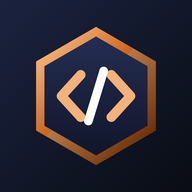
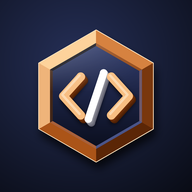
Add files via upload

Changed region(s): [[0.1875, 0.125, 0.8125, 0.875]]

diff --git a/index.html b/index.html
@@ -2,72 +2,77 @@
 <html lang="es">
 <head>
 <meta charset="utf-8">
-<meta name="viewport" content="width=device-width, initial-scale=1">
+<meta name="viewport" content="width=device-width, initial-scale=1,viewport-fit=cover">
 <title>CodeForja · Ventas de apps web</title>
 <link rel="manifest" href="manifest.webmanifest">
-<meta name="theme-color" content="#141A26">
+<meta name="theme-color" content="#0B0F18">
+<meta name="color-scheme" content="dark">
+<meta name="apple-mobile-web-app-status-bar-style" content="black">
 <meta name="mobile-web-app-capable" content="yes">
 <meta name="apple-mobile-web-app-capable" content="yes">
 <meta name="apple-mobile-web-app-title" content="CodeForja">
-<link rel="icon" href="icon.svg" type="image/svg+xml">
-<link rel="apple-touch-icon" href="icon-192.png">
+<link rel="icon" href="icon-192.png" type="image/png">
+<link rel="apple-touch-icon" href="apple-touch-icon.png">
 <style>
-:root{--bg:#EEF1F6;--card:#fff;--ink:#141A26;--mut:#5E6A7E;--line:#D9DFEA;--ac:#4C3FE0;--cu:#D9772B;--ok:#13875B;--bad:#C93A3A;--side:#141A26}
-@media(prefers-color-scheme:dark){:root{--bg:#0E121B;--card:#171D2A;--ink:#EAEEF6;--mut:#93A0B8;--line:#27304A;--ac:#8B80FF;--side:#0A0D14}}
-*{box-sizing:border-box}body{margin:0;font:15px/1.5 "Segoe UI",system-ui,sans-serif;background:var(--bg);color:var(--ink)}
-.app{display:grid;grid-template-columns:220px 1fr;min-height:100vh}
-aside{background:var(--side);color:#fff;padding:18px 14px;position:sticky;top:0;height:100vh}
-.brand{display:flex;gap:10px;align-items:center;margin-bottom:22px}.brand b{font-size:18px;letter-spacing:.3px}.brand small{display:block;color:#9AA6BD;font-size:11px}
-nav button{display:block;width:100%;text-align:left;background:none;border:0;color:#C9D2E3;padding:10px 12px;border-radius:10px;font:inherit;cursor:pointer;margin-bottom:4px}
-nav button.on,nav button:hover{background:rgba(255,255,255,.1);color:#fff}
-main{padding:22px;max-width:1100px;width:100%}
-h1{font-size:24px;margin:0 0 16px}
-.kpis{display:grid;grid-template-columns:repeat(auto-fit,minmax(170px,1fr));gap:12px;margin-bottom:16px}
-.k{background:var(--card);border:1px solid var(--line);border-radius:14px;padding:14px}.k span{color:var(--mut);font-size:13px}.k b{display:block;font-size:24px;margin-top:2px}
-.card{background:var(--card);border:1px solid var(--line);border-radius:14px;padding:16px;margin-bottom:16px}
+:root{--bg:#0B0F18;--card:#121827;--ink:#EAF0FA;--mut:#97A4BD;--line:#26304A;--ac:#7C6CFF;--cu:#FF9A3C;--ok:#2EE6A0;--bad:#FF5C6E;--side:#0A0D14;--led:#05070D;--sb:env(safe-area-inset-bottom,0px);color-scheme:dark}
+*{box-sizing:border-box}html{-webkit-text-size-adjust:100%}
+body{margin:0;font:15px/1.5 "Segoe UI",system-ui,sans-serif;background:radial-gradient(900px 500px at 85% -10%,rgba(124,108,255,.16),transparent 60%) fixed,var(--bg);color:var(--ink);overflow-x:hidden;overflow-wrap:break-word}
+.app{display:grid;grid-template-columns:230px minmax(0,1fr);min-height:100vh;min-height:100dvh}
+aside{background:linear-gradient(180deg,#0E1424,var(--side));border-right:1px solid var(--line);color:#fff;padding:calc(18px + env(safe-area-inset-top,0px)) 14px 18px max(14px,env(safe-area-inset-left,0px));position:sticky;top:0;height:100vh;height:100dvh;overflow-y:auto}
+.brand{display:flex;gap:10px;align-items:center;margin-bottom:24px}.brand img{border-radius:12px;box-shadow:0 0 18px rgba(255,154,60,.45),0 4px 10px #000a}.brand b{font-size:18px}.brand small{display:block;color:#9AA6BD;font-size:11px}
+nav button{--n:124,108,255;display:block;width:100%;text-align:left;color:#C9D2E3;font:inherit;cursor:pointer;margin-bottom:12px;padding:11px 13px;border-radius:12px;border:1px solid rgba(255,255,255,.09);background:linear-gradient(180deg,#1E2640,#141A2B);box-shadow:inset 0 1px 0 rgba(255,255,255,.12),0 4px 0 var(--led),0 8px 12px rgba(0,0,0,.4);transition:transform .08s,box-shadow .08s}
+nav button:hover{color:#fff;border-color:rgba(var(--n),.6)}
+nav button.on{color:#fff;border-color:rgb(var(--n));background:linear-gradient(180deg,rgba(var(--n),.45),rgba(var(--n),.12)),#141A2B;box-shadow:inset 0 1px 0 rgba(255,255,255,.25),inset 0 0 18px rgba(var(--n),.6),0 4px 0 var(--led),0 0 18px rgba(var(--n),.45);text-shadow:0 0 8px rgba(var(--n),.9)}
+.sh{display:none}
+main{padding:clamp(12px,3vw,24px) max(clamp(12px,3vw,24px),env(safe-area-inset-right,0px));max-width:1100px;width:100%;min-width:0}
+h1{font-size:clamp(20px,3vw,26px);margin:0 0 16px}
+.kpis{display:grid;grid-template-columns:repeat(auto-fit,minmax(165px,1fr));gap:16px;margin-bottom:24px}
+.k{--n:124,108,255;position:relative;display:block;width:100%;text-align:left;font:inherit;color:var(--ink);cursor:pointer;padding:15px 14px 16px;border-radius:16px;border:1px solid rgba(var(--n),.6);background:radial-gradient(120% 100% at 50% 0,rgba(var(--n),.24),transparent 65%),linear-gradient(180deg,#1C2540,#121827);box-shadow:inset 0 1px 0 rgba(255,255,255,.14),inset 0 0 26px rgba(var(--n),.3),0 5px 0 var(--led),0 0 20px rgba(var(--n),.25),0 12px 22px rgba(0,0,0,.5);transition:transform .08s,box-shadow .08s,filter .15s}
+.k::before{content:"";position:absolute;left:16%;right:16%;top:-1px;height:2px;border-radius:2px;background:rgb(var(--n));box-shadow:0 0 12px 2px rgba(var(--n),.9)}
+.k span{display:block;color:var(--mut);font-size:13px}.k b{display:block;margin-top:2px;font-size:clamp(18px,2.4vw,24px);color:#fff;text-shadow:0 0 14px rgba(var(--n),.85);overflow-wrap:anywhere}
+.card{background:linear-gradient(180deg,#151C2E,var(--card));border:1px solid var(--line);border-radius:16px;padding:16px;margin-bottom:18px;box-shadow:inset 0 1px 0 rgba(255,255,255,.05),0 10px 24px rgba(0,0,0,.35)}
 .card h2{font-size:16px;margin:0 0 12px}
-.bars{display:flex;align-items:flex-end;gap:10px;height:150px}.bars div{flex:1;text-align:center;font-size:11px;color:var(--mut)}.bars i{display:block;background:linear-gradient(var(--ac),#7A6CFF);border-radius:6px 6px 0 0;min-height:3px;margin-bottom:4px}
+.bars{display:flex;align-items:flex-end;gap:10px;height:150px}.bars div{flex:1;min-width:0;text-align:center;font-size:11px;color:var(--mut)}.bars i{display:block;background:linear-gradient(#9A8FFF,#5547E0);box-shadow:0 0 14px rgba(124,108,255,.65);border-radius:6px 6px 0 0;min-height:3px;margin-bottom:4px}
 .tw{overflow-x:auto}table{width:100%;border-collapse:collapse;min-width:720px}th,td{padding:9px 8px;border-bottom:1px solid var(--line);text-align:left;font-size:14px}th{color:var(--mut);font-weight:600;font-size:13px}
-.tag{padding:2px 9px;border-radius:99px;font-size:12px;font-weight:600;white-space:nowrap}.t-ok{background:#13875B22;color:var(--ok)}.t-w{background:#D9772B26;color:var(--cu)}.t-b{background:#C93A3A22;color:var(--bad)}
-button.b,a.b{background:var(--ac);color:#fff;border:0;border-radius:9px;padding:7px 12px;font:inherit;font-size:13px;cursor:pointer;text-decoration:none;display:inline-block}
-button.g{background:none;color:var(--ac);border:1px solid var(--line)}button.d{background:none;color:var(--bad);border:1px solid var(--line)}
-.row{display:flex;gap:6px;flex-wrap:wrap}.bar{display:flex;gap:8px;flex-wrap:wrap;margin-bottom:12px;align-items:center}
-input,select,textarea{width:100%;padding:9px 10px;border:1px solid var(--line);border-radius:9px;background:var(--bg);color:var(--ink);font:inherit}
-label{font-size:13px;color:var(--mut);display:block}.fg{display:grid;grid-template-columns:1fr 1fr;gap:10px}.fg .w{grid-column:1/-1}
-dialog{border:0;border-radius:16px;padding:20px;width:min(520px,94vw);background:var(--card);color:var(--ink)}dialog::backdrop{background:#0008}
-.alert{background:#D9772B1F;border:1px solid var(--cu);border-radius:12px;padding:10px 14px;margin-bottom:14px}
-.hide{display:none}
-@media(max-width:760px){.app{grid-template-columns:1fr}aside{position:static;height:auto;display:flex;gap:8px;align-items:center;overflow-x:auto}.brand{margin:0}nav{display:flex}nav button{white-space:nowrap}.fg{grid-template-columns:1fr}}
+.tag{padding:2px 9px;border-radius:99px;font-size:12px;font-weight:600;white-space:nowrap;border:1px solid currentColor}.t-ok{background:#2EE6A01F;color:var(--ok)}.t-w{background:#FF9A3C22;color:var(--cu)}.t-b{background:#FF5C6E22;color:var(--bad)}
+.b{--n:124,108,255;display:inline-flex;align-items:center;justify-content:center;min-height:36px;padding:7px 14px;border-radius:10px;font:inherit;font-size:13px;font-weight:600;color:#fff;text-decoration:none;cursor:pointer;border:1px solid rgb(var(--n));text-shadow:0 0 8px rgba(var(--n),.95);background:linear-gradient(180deg,rgba(var(--n),.6),rgba(var(--n),.2) 55%,rgba(var(--n),.3)),#171D33;box-shadow:inset 0 1px 0 rgba(255,255,255,.4),inset 0 0 14px rgba(var(--n),.55),0 4px 0 var(--led),0 0 14px rgba(var(--n),.35),0 8px 14px rgba(0,0,0,.4);transition:transform .08s,box-shadow .08s,filter .15s}
+.b.g,.b.d{text-shadow:none;background:linear-gradient(180deg,rgba(var(--n),.22),rgba(var(--n),.06)),#12182A;border-color:rgba(var(--n),.55);box-shadow:inset 0 1px 0 rgba(255,255,255,.14),inset 0 0 10px rgba(var(--n),.3),0 4px 0 var(--led),0 8px 14px rgba(0,0,0,.4)}
+.b.g{--n:150,140,255;color:#D8D3FF}.b.d{--n:255,92,110;color:#FFC2C9}
+.b:hover,.k:hover,nav button:hover{filter:brightness(1.15)}
+.b:active,.k:active,nav button:active{transform:translateY(3px);box-shadow:inset 0 0 16px rgba(var(--n),.6),0 1px 0 var(--led),0 0 10px rgba(var(--n),.3)}
+:focus-visible{outline:2px solid #fff;outline-offset:3px}
+.row,.bar{padding-bottom:5px}.row{display:flex;gap:10px;flex-wrap:wrap}.bar{display:flex;gap:12px;flex-wrap:wrap;margin-bottom:12px;align-items:center}.qi{max-width:260px}
+input,select,textarea{width:100%;padding:10px;border:1px solid var(--line);border-radius:10px;background:#0B1020;color:var(--ink);font:inherit;box-shadow:inset 0 2px 5px rgba(0,0,0,.45)}
+input:focus,select:focus,textarea:focus{outline:0;border-color:var(--ac);box-shadow:inset 0 2px 5px rgba(0,0,0,.45),0 0 0 3px rgba(124,108,255,.35)}
+label{font-size:13px;color:var(--mut);display:block;margin-bottom:3px}.fg{display:grid;grid-template-columns:1fr 1fr;gap:10px}.fg .w{grid-column:1/-1}
+dialog{max-height:92dvh;overflow:auto;border:1px solid rgba(124,108,255,.5);border-radius:18px;padding:20px;width:min(520px,94vw);background:var(--card);color:var(--ink);box-shadow:0 0 30px rgba(124,108,255,.3),0 20px 50px #000}dialog::backdrop{background:rgba(3,5,10,.75)}
+.alert{background:rgba(255,154,60,.1);border:1px solid var(--cu);border-radius:12px;padding:10px 14px;margin-bottom:16px;box-shadow:inset 0 0 18px rgba(255,154,60,.18)}
+.hide{display:none!important}#recbox img{width:100%;max-height:66dvh;object-fit:contain;display:block}textarea{resize:vertical;min-height:110px}
+@media(max-width:1000px){.app{grid-template-columns:minmax(0,1fr)}
+aside{height:auto;overflow:visible;z-index:5;border-right:0;border-bottom:1px solid var(--line);padding:calc(10px + env(safe-area-inset-top,0px)) max(14px,env(safe-area-inset-right,0px)) 10px max(14px,env(safe-area-inset-left,0px))}
+.brand{margin:0}.brand small{display:none}.brand b{font-size:16px}.brand img{width:38px;height:38px}
+nav{position:fixed;left:0;right:0;bottom:0;z-index:10;display:grid;grid-template-columns:repeat(4,1fr);gap:8px;padding:10px 10px calc(10px + var(--sb));background:rgba(10,13,20,.94);-webkit-backdrop-filter:blur(10px);backdrop-filter:blur(10px);border-top:1px solid var(--line)}
+nav button{margin:0;padding:10px 4px;text-align:center;font-size:12px;min-height:46px}.lg{display:none}.sh{display:inline}
+main{padding-bottom:calc(100px + var(--sb))}.fg{grid-template-columns:1fr}.qi{max-width:none;flex:1 1 100%}input,select,textarea{font-size:16px}
+table,thead,tbody,tr,td{display:block;width:100%}table{min-width:0}thead{display:none}
+tr{background:linear-gradient(180deg,#151C2E,var(--card));border:1px solid var(--line);border-radius:14px;padding:8px 12px;margin-bottom:14px;box-shadow:0 6px 14px rgba(0,0,0,.35)}
+td{border:0;padding:4px 0;display:flex;justify-content:space-between;align-items:center;gap:12px;text-align:right}td::before{content:attr(data-l);color:var(--mut);font-size:13px;text-align:left}td:last-child::before,td[colspan]::before{content:none}td:last-child{display:block;padding-top:8px}td:last-child .row .b{flex:1}td:last-child>.b{width:100%}
+.card.tw{background:none;border:0;padding:0;box-shadow:none}.tw{overflow:visible}.kpis{grid-template-columns:1fr 1fr}.k:last-child{grid-column:1/-1}}
+@media(prefers-reduced-motion:reduce){*{transition:none!important}}
 </style>
 </head>
 <body>
 <div class="app">
 <aside>
   <div class="brand">
-    <svg width="46" height="46" viewBox="0 0 100 100" aria-label="Logo CodeForja">
-      <defs>
-        <linearGradient id="m" x1="0" y1="0" x2="1" y2="1"><stop offset="0" stop-color="#F4B27A"/><stop offset=".45" stop-color="#C9651F"/><stop offset="1" stop-color="#6E3009"/></linearGradient>
-        <linearGradient id="f" x1="0" y1="0" x2="0" y2="1"><stop offset="0" stop-color="#2B3560"/><stop offset="1" stop-color="#0B0F1E"/></linearGradient>
-        <linearGradient id="h" x1="0" y1="0" x2="0" y2="1"><stop offset="0" stop-color="#fff" stop-opacity=".75"/><stop offset="1" stop-color="#fff" stop-opacity="0"/></linearGradient>
-        <radialGradient id="g" cx=".5" cy=".5" r=".5"><stop offset="0" stop-color="#8B80FF" stop-opacity=".9"/><stop offset="1" stop-color="#8B80FF" stop-opacity="0"/></radialGradient>
-        <filter id="s" x="-20%" y="-20%" width="140%" height="150%"><feDropShadow dx="0" dy="4" stdDeviation="3" flood-opacity=".5"/></filter>
-      </defs>
-      <g filter="url(#s)">
-        <polygon points="50,5 90,27 90,73 50,95 10,73 10,27" fill="url(#m)"/>
-        <polygon points="50,12 83,31 83,69 50,88 17,69 17,31" fill="url(#f)"/>
-        <polygon points="50,5 90,27 50,48 10,27" fill="url(#h)" opacity=".45"/>
-      </g>
-      <circle cx="50" cy="50" r="30" fill="url(#g)"/>
-      <path d="M40 36 28 50 40 64M60 36 72 50 60 64" fill="none" stroke="#F4B27A" stroke-width="6" stroke-linecap="round" stroke-linejoin="round"/>
-      <path d="M54 34 46 66" stroke="#fff" stroke-width="5" stroke-linecap="round"/>
-    </svg>
+    <img src="icon-192.png" width="46" height="46" alt="Logo CodeForja">
     <div><b id="bn">CodeForja</b><small>Ventas de apps web</small></div>
   </div>
   <nav>
     <button data-v="dash" class="on">Panel</button>
     <button data-v="ventas">Ventas</button>
-    <button data-v="avisos">Avisos de garantía</button>
-    <button data-v="ajustes">Ajustes y datos</button>
+    <button data-v="avisos"><span class="lg">Avisos de garantía</span><span class="sh">Avisos</span></button>
+    <button data-v="ajustes"><span class="lg">Ajustes y datos</span><span class="sh">Ajustes</span></button>
   </nav>
 </aside>
 <main>
@@ -88,6 +93,9 @@ const $=s=>document.querySelector(s);
 const esc=s=>String(s??"").replace(/[&<>"]/g,c=>({"&":"&amp;","<":"&lt;",">":"&gt;",'"':"&quot;"}[c]));
 const cop=n=>"$"+Math.round(+n||0).toLocaleString("es-CO");
 const KEY="codeforja.v1";
+const DEFNOTA="¡Hola, {cliente}! Gracias por tu compra. Durante los primeros 30 días tu soporte está incluido: cubrimos cualquier cambio, actualización o sugerencia sin costo. A partir del día 31 el soporte vence y las nuevas mejoras tienen un valor adicional. Para cualquier solicitud, por favor ponte en contacto con soporte. Un cordial saludo, {negocio}.";
+const notaDe=v=>(S.cfg.nota||DEFNOTA).replace(/\{cliente\}/g,v.cliente).replace(/\{negocio\}/g,S.cfg.negocio||"CodeForja");
+function ajusta(x,t,w){const o=[];let l="";t.split(" ").forEach(p=>{const n=l?l+" "+p:p;if(x.measureText(n).width>w&&l){o.push(l);l=p}else l=n});if(l)o.push(l);return o}
 let S={cfg:{negocio:"CodeForja",whatsapp:"",cuota:50000,alerta:15},ventas:[]};
 function guardar(){try{localStorage.setItem(KEY,JSON.stringify(S))}catch(e){}}
 async function cargar(){
@@ -111,54 +119,56 @@ function render(){
   $("#dash").innerHTML=`<h1>Panel</h1>
   ${por.length+ven.length?`<div class="alert"><b>${por.length}</b> garantía(s) por vencer y <b>${ven.length}</b> vencida(s). Avisa a tus clientes desde “Avisos de garantía”.</div>`:""}
   <div class="kpis">
-   <div class="k"><span>Apps vendidas</span><b>${V.length}</b></div>
-   <div class="k"><span>Ventas totales</span><b>${cop(tot)}</b></div>
-   <div class="k"><span>Cobrado</span><b>${cop(pag)}</b></div>
-   <div class="k"><span>Por cobrar</span><b style="color:var(--cu)">${cop(tot-pag)}</b></div>
-   <div class="k"><span>Garantías activas</span><b>${V.filter(v=>dias(v)>=0).length}</b></div></div>
+   <button class="k" data-a="go" data-id="ventas" style="--n:124,108,255"><span>Apps vendidas</span><b>${V.length}</b></button>
+   <button class="k" data-a="go" data-id="ventas" style="--n:255,154,60"><span>Ventas totales</span><b>${cop(tot)}</b></button>
+   <button class="k" data-a="go" data-id="ventas" style="--n:46,230,160"><span>Cobrado</span><b>${cop(pag)}</b></button>
+   <button class="k" data-a="go" data-id="ventas" style="--n:255,92,110"><span>Por cobrar</span><b>${cop(tot-pag)}</b></button>
+   <button class="k" data-a="go" data-id="avisos" style="--n:60,200,255"><span>Garantías activas</span><b>${V.filter(v=>dias(v)>=0).length}</b></button></div>
   <div class="card"><h2>Cobrado por mes</h2>${ks.length?`<div class="bars">${ks.map(k=>`<div><i style="height:${meses[k]/mx*110}px"></i>${k.slice(5)}/${k.slice(2,4)}<br>${cop(meses[k]/1000)}k</div>`).join("")}</div>`:"<p>Aún no hay ventas. Registra la primera en “Ventas”.</p>"}</div>`;
 
-  $("#ventas").innerHTML=`<h1>Ventas</h1><div class="bar"><button class="b" onclick="editar()">+ Nueva venta</button><input id="q" placeholder="Buscar cliente o app" style="max-width:260px" oninput="filtrar()"></div>
+  $("#ventas").innerHTML=`<h1>Ventas</h1><div class="bar"><button class="b" data-a="editar">+ Nueva venta</button><input id="q" placeholder="Buscar cliente o app" class="qi" oninput="filtrar()"></div>
   <div class="card tw"><table><thead><tr><th>Cliente</th><th>App</th><th>Precio</th><th>Saldo</th><th>Garantía hasta</th><th>Estado</th><th></th></tr></thead><tbody id="tb"></tbody></table></div>`;
   filtrar();
 
   const alertas=[...por,...ven].sort((a,b)=>dias(a)-dias(b));
   $("#avisos").innerHTML=`<h1>Avisos de garantía</h1><p style="color:var(--mut)">Clientes con garantía por vencer (${S.cfg.alerta} días) o vencida. El mensaje anuncia que desde esa fecha se cobran las próximas mejoras (${cop(S.cfg.cuota)}).</p>
-  <div class="card tw"><table><thead><tr><th>Cliente</th><th>App</th><th>Vence</th><th>Días</th><th></th></tr></thead><tbody>${alertas.map(v=>`<tr><td>${esc(v.cliente)}</td><td>${esc(v.app)}</td><td>${fmtD(fin(v))}</td><td><span class="tag ${estado(v)[1]}">${dias(v)}</span></td><td><button class="b" onclick="avisar('${v.id}')">Avisar por WhatsApp</button></td></tr>`).join("")||`<tr><td colspan="5">Nada por avisar. Todo al día.</td></tr>`}</tbody></table></div>`;
+  <div class="card tw"><table><thead><tr><th>Cliente</th><th>App</th><th>Vence</th><th>Días</th><th></th></tr></thead><tbody>${alertas.map(v=>`<tr><td data-l="Cliente">${esc(v.cliente)}</td><td data-l="App">${esc(v.app)}</td><td data-l="Vence">${fmtD(fin(v))}</td><td data-l="Días"><span class="tag ${estado(v)[1]}">${dias(v)}</span></td><td><button class="b" data-a="avisar" data-id="${esc(v.id)}">Avisar por WhatsApp</button></td></tr>`).join("")||`<tr><td colspan="5">Nada por avisar. Todo al día.</td></tr>`}</tbody></table></div>`;
 
   const c=S.cfg;
   $("#ajustes").innerHTML=`<h1>Ajustes y datos</h1><div class="card"><div class="fg">
   <div><label>Nombre del negocio</label><input id="c1" value="${esc(c.negocio)}"></div>
   <div><label>Tu WhatsApp (con indicativo, ej. 573001234567)</label><input id="c2" value="${esc(c.whatsapp)}"></div>
   <div><label>Cobro por mejoras futuras (COP)</label><input id="c3" type="number" value="${c.cuota}"></div>
-  <div><label>Avisar con X días de anticipación</label><input id="c4" type="number" value="${c.alerta}"></div></div>
+  <div><label>Avisar con X días de anticipación</label><input id="c4" type="number" value="${c.alerta}"></div>
+  <div class="w"><label>Nota que sale en el recibo (usa {cliente} y {negocio})</label><textarea id="c5">${esc(c.nota||DEFNOTA)}</textarea></div></div>
   <p><button class="b" onclick="saveCfg()">Guardar ajustes</button></p></div>
   <div class="card"><h2>Datos para GitHub</h2><p style="color:var(--mut)">Descarga <b>data.json</b> y súbelo al repositorio junto a index.html. Al abrir la app, si el navegador no tiene datos, los carga de ese archivo. Para actualizar la app, solo reemplaza index.html en GitHub: tus datos no se pierden.</p>
   <div class="row"><button class="b" onclick="exportar()">Descargar data.json</button><button class="b g" onclick="$('#imp').click()">Importar data.json</button><input id="imp" type="file" accept=".json" class="hide" onchange="importar(this)"></div></div>`;
 }
 function filtrar(){
   const q=($("#q")?.value||"").toLowerCase();
-  $("#tb").innerHTML=S.ventas.filter(v=>(v.cliente+v.app).toLowerCase().includes(q)).sort((a,b)=>b.fecha.localeCompare(a.fecha)).map(v=>{const e=estado(v);return `<tr><td>${esc(v.cliente)}</td><td>${esc(v.app)}</td><td>${cop(v.precio)}</td><td>${cop(v.precio-v.pagado)}</td><td>${fmtD(fin(v))}</td><td><span class="tag ${e[1]}">${e[0]}</span></td><td><div class="row"><button class="b" onclick="recibo('${v.id}')">Recibo</button><button class="b g" onclick="editar('${v.id}')">Editar</button><button class="b d" onclick="borrar('${v.id}')">Borrar</button></div></td></tr>`}).join("")||`<tr><td colspan="7">Sin ventas todavía.</td></tr>`;
+  $("#tb").innerHTML=S.ventas.filter(v=>(v.cliente+v.app).toLowerCase().includes(q)).sort((a,b)=>b.fecha.localeCompare(a.fecha)).map(v=>{const e=estado(v);return `<tr><td data-l="Cliente">${esc(v.cliente)}</td><td data-l="App">${esc(v.app)}</td><td data-l="Precio">${cop(v.precio)}</td><td data-l="Saldo">${cop(v.precio-v.pagado)}</td><td data-l="Garantía hasta">${fmtD(fin(v))}</td><td data-l="Estado"><span class="tag ${e[1]}">${e[0]}</span></td><td><div class="row"><button class="b" data-a="recibo" data-id="${esc(v.id)}">Recibo</button><button class="b g" data-a="editar" data-id="${esc(v.id)}">Editar</button><button class="b d" data-a="borrar" data-id="${esc(v.id)}">Borrar</button></div></td></tr>`}).join("")||`<tr><td colspan="7">Sin ventas todavía.</td></tr>`;
 }
-function editar(id){
-  const v=S.ventas.find(x=>x.id==id)||{cliente:"",tel:"",app:"",precio:"",pagado:0,fecha:new Date().toISOString().slice(0,10),meses:3,nota:""};
+let EID="";
+function editar(id){EID=id||"";
+  const v=S.ventas.find(x=>x.id==id)||{cliente:"",tel:"",app:"",precio:"",pagado:0,fecha:new Date().toISOString().slice(0,10),meses:1,nota:""};
   $("#frm").innerHTML=`<h2 style="margin-top:0">${id?"Editar venta":"Nueva venta"}</h2><div class="fg">
   <div><label>Cliente</label><input id="f1" value="${esc(v.cliente)}"></div><div><label>Celular</label><input id="f2" value="${esc(v.tel)}"></div>
   <div class="w"><label>Aplicación vendida</label><input id="f3" value="${esc(v.app)}"></div>
   <div><label>Precio (COP)</label><input id="f4" type="number" value="${v.precio}"></div><div><label>Pagado (COP)</label><input id="f5" type="number" value="${v.pagado}"></div>
   <div><label>Fecha de venta</label><input id="f6" type="date" value="${v.fecha}"></div><div><label>Garantía y soporte (meses)</label><input id="f7" type="number" value="${v.meses}"></div>
   <div class="w"><label>Nota</label><input id="f8" value="${esc(v.nota)}"></div></div>
-  <p class="row"><button type="button" class="b" onclick="guardarVenta('${id||""}')">Guardar</button><button type="button" class="b g" onclick="$('#dlg').close()">Cancelar</button></p>`;
+  <p class="row"><button type="button" class="b" onclick="guardarVenta()">Guardar</button><button type="button" class="b g" onclick="$('#dlg').close()">Cancelar</button></p>`;
   $("#dlg").showModal();
 }
-function guardarVenta(id){
+function guardarVenta(){const id=EID;
   const n={id:id||String(Date.now()),cliente:$("#f1").value.trim(),tel:$("#f2").value.trim(),app:$("#f3").value.trim(),precio:+$("#f4").value||0,pagado:+$("#f5").value||0,fecha:$("#f6").value,meses:+$("#f7").value||0,nota:$("#f8").value.trim()};
   if(!n.cliente||!n.app||!n.fecha){alert("Escribe cliente, aplicación y fecha.");return}
   const i=S.ventas.findIndex(x=>x.id==id);i>=0?S.ventas[i]=n:S.ventas.push(n);
   guardar();$("#dlg").close();render();
 }
 function borrar(id){if(confirm("¿Borrar esta venta?")){S.ventas=S.ventas.filter(v=>v.id!=id);guardar();render()}}
-function saveCfg(){S.cfg={negocio:$("#c1").value||"CodeForja",whatsapp:$("#c2").value.replace(/\D/g,""),cuota:+$("#c3").value||0,alerta:+$("#c4").value||15};guardar();render();alert("Ajustes guardados")}
+function saveCfg(){S.cfg={negocio:$("#c1").value||"CodeForja",whatsapp:$("#c2").value.replace(/\D/g,""),cuota:+$("#c3").value||0,alerta:+$("#c4").value||15,nota:$("#c5").value.trim()||DEFNOTA};guardar();render();alert("Ajustes guardados")}
 function exportar(){const a=document.createElement("a");a.href=URL.createObjectURL(new Blob([JSON.stringify(S,null,2)],{type:"application/json"}));a.download="data.json";a.click()}
 function importar(i){const f=i.files[0];if(!f)return;f.text().then(t=>{try{S=JSON.parse(t);guardar();render();alert("Datos importados")}catch(e){alert("El archivo no es válido")}})}
 function numWA(t){let d=String(t).replace(/\D/g,"");return d.length==10?"57"+d:d}
@@ -168,26 +178,30 @@ function avisar(id){
   window.open("https://wa.me/"+numWA(v.tel)+"?text="+encodeURIComponent(m),"_blank");
 }
 /* Recibo estilo Nequi: se dibuja como imagen y se comparte */
-let CV=null;
+let CV=null,CN="";
 function recibo(id){
-  const v=S.ventas.find(x=>x.id==id),c=document.createElement("canvas");c.width=720;c.height=1080;const x=c.getContext("2d");
-  const g=x.createLinearGradient(0,0,720,1080);g.addColorStop(0,"#2A0A4A");g.addColorStop(1,"#7A1FA2");x.fillStyle=g;x.fillRect(0,0,720,1080);
+  const v=S.ventas.find(x=>x.id==id),c=document.createElement("canvas");const m=document.createElement("canvas").getContext("2d");m.font="22px Segoe UI,Arial";const NL=ajusta(m,notaDe(v),540),CT=S.cfg.whatsapp?1:0,H=1030+60+NL.length*32+CT*34+110;c.width=720;c.height=H;const x=c.getContext("2d");
+  const g=x.createLinearGradient(0,0,720,H);g.addColorStop(0,"#2A0A4A");g.addColorStop(1,"#7A1FA2");x.fillStyle=g;x.fillRect(0,0,720,H);
   x.fillStyle="#fff";x.font="bold 40px Segoe UI,Arial";x.textAlign="center";x.fillText(S.cfg.negocio,360,90);
   x.font="26px Segoe UI,Arial";x.fillStyle="#E9D3FA";x.fillText("¡Listo! Tu pago quedó registrado",360,140);
-  x.fillStyle="#fff";x.beginPath();x.roundRect(40,180,640,820,28);x.fill();
+  x.fillStyle="#fff";x.beginPath();x.roundRect(40,180,640,H-230,28);x.fill();
   x.fillStyle="#13875B";x.beginPath();x.arc(360,250,38,0,7);x.fill();x.strokeStyle="#fff";x.lineWidth=8;x.lineCap="round";x.beginPath();x.moveTo(342,250);x.lineTo(356,264);x.lineTo(380,236);x.stroke();
   x.textAlign="center";x.fillStyle="#6B7280";x.font="24px Segoe UI,Arial";x.fillText("Valor pagado",360,340);
   x.fillStyle="#200020";x.font="bold 64px Segoe UI,Arial";x.fillText(cop(v.pagado),360,410);
   const f=[["Cliente",v.cliente],["Aplicación",v.app],["Precio total",cop(v.precio)],["Saldo pendiente",cop(v.precio-v.pagado)],["Fecha",fmtD(new Date(v.fecha+"T12:00:00"))],["Garantía hasta",fmtD(fin(v))],["Referencia","M"+String(v.id).slice(-8)]];
   x.textAlign="left";let y=480;
   f.forEach(r=>{x.fillStyle="#6B7280";x.font="22px Segoe UI,Arial";x.fillText(r[0],80,y);x.fillStyle="#200020";x.font="bold 24px Segoe UI,Arial";x.textAlign="right";x.fillText(String(r[1]).slice(0,28),640,y);x.textAlign="left";x.strokeStyle="#EEE";x.lineWidth=2;x.beginPath();x.moveTo(80,y+18);x.lineTo(640,y+18);x.stroke();y+=70});
-  x.textAlign="center";x.fillStyle="#9CA3AF";x.font="20px Segoe UI,Arial";x.fillText("Gracias por confiar en "+S.cfg.negocio,360,1040);
-  CV=c;
-  $("#recbox").innerHTML=`<img src="${c.toDataURL()}" style="width:100%;border-radius:12px"><p class="row"><button class="b" onclick="compartir('${v.cliente.replace(/'/g,"")}')">Compartir recibo</button><button class="b g" onclick="descargar()">Descargar</button><button class="b g" onclick="$('#rec').close()">Cerrar</button></p>`;
+  x.fillStyle="#F4EAFB";x.beginPath();x.roundRect(64,1000,592,60+NL.length*32+CT*34,18);x.fill();
+  x.textAlign="left";x.fillStyle="#7A1FA2";x.font="bold 22px Segoe UI,Arial";x.fillText("Nota importante",84,1040);
+  x.fillStyle="#3B2A4A";x.font="22px Segoe UI,Arial";NL.forEach((l,i)=>x.fillText(l,84,1078+i*32));
+  if(CT){x.fillStyle="#7A1FA2";x.font="bold 22px Segoe UI,Arial";x.fillText("Soporte por WhatsApp: +"+S.cfg.whatsapp,84,1078+NL.length*32+8)}
+  x.textAlign="center";x.fillStyle="#E9D3FA";x.font="20px Segoe UI,Arial";x.fillText("Gracias por confiar en "+S.cfg.negocio,360,H-20);
+  CV=c;CN=v.cliente;
+  $("#recbox").innerHTML=`<img src="${c.toDataURL()}" style="width:100%;border-radius:12px"><p class="row"><button class="b" onclick="compartir()">Compartir recibo</button><button class="b g" onclick="descargar()">Descargar</button><button class="b g" onclick="$('#rec').close()">Cerrar</button></p>`;
   $("#rec").showModal();
 }
 function descargar(){const a=document.createElement("a");a.href=CV.toDataURL();a.download="recibo.png";a.click()}
-function compartir(n){
+function compartir(){const n=CN;
   CV.toBlob(async b=>{
     const f=new File([b],"recibo.png",{type:"image/png"});
     if(navigator.canShare&&navigator.canShare({files:[f]})){try{await navigator.share({files:[f],title:"Recibo de pago",text:"Recibo de "+n})}catch(e){}}
@@ -198,6 +212,8 @@ document.querySelectorAll("nav button").forEach(b=>b.onclick=()=>{
   document.querySelectorAll("nav button").forEach(x=>x.classList.toggle("on",x==b));
   ["dash","ventas","avisos","ajustes"].forEach(s=>$("#"+s).classList.toggle("hide",s!=b.dataset.v));
 });
+function go(v){document.querySelector('nav button[data-v="'+v+'"]').click();scrollTo(0,0)}
+document.addEventListener("click",e=>{const t=e.target.closest("[data-a]");if(!t)return;const f={go,editar,avisar,recibo,borrar}[t.dataset.a];f&&f(t.dataset.id)});
 cargar();
 /* Instalable (PWA) y modo sin internet */
 if("serviceWorker" in navigator)addEventListener("load",()=>navigator.serviceWorker.register("sw.js").catch(()=>{}));

diff --git a/sw.js b/sw.js
@@ -1,7 +1,7 @@
 /* Service worker: funciona sin internet y recibe actualizaciones de GitHub.
    Sube el numero de VERSION cada vez que cambies los archivos. */
-const VERSION = "codeforja-v1";
-const ARCHIVOS = ["./", "./index.html", "./manifest.webmanifest", "./icon-192.png", "./icon-512.png", "./icon.svg"];
+const VERSION = "codeforja-v3";
+const ARCHIVOS = ["./", "./index.html", "./manifest.webmanifest", "./icon-192.png", "./icon-512.png", "./apple-touch-icon.png"];
 
 self.addEventListener("install", e => {
   e.waitUntil(caches.open(VERSION).then(c => c.addAll(ARCHIVOS)).then(() => self.skipWaiting()));
